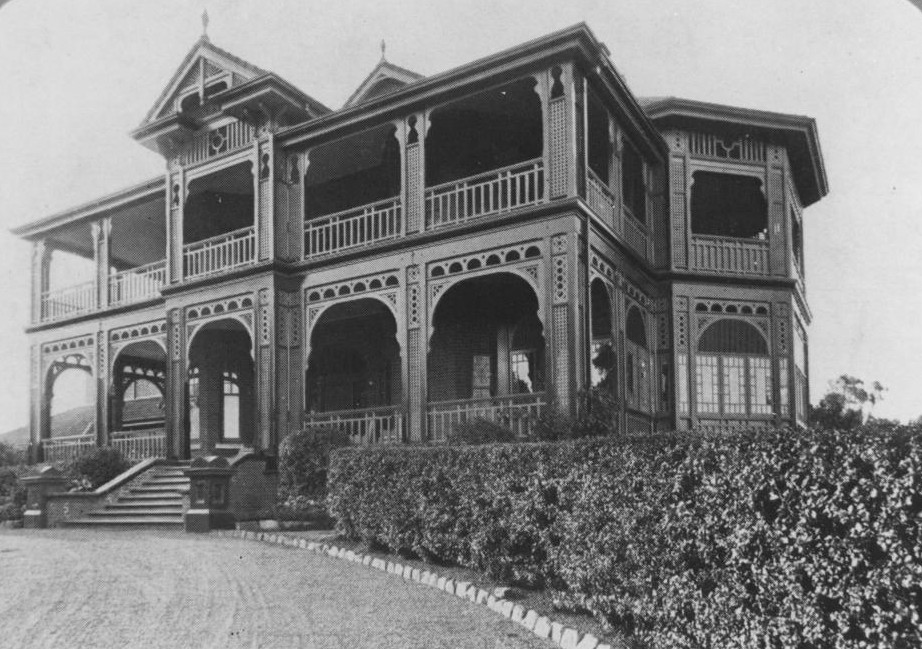
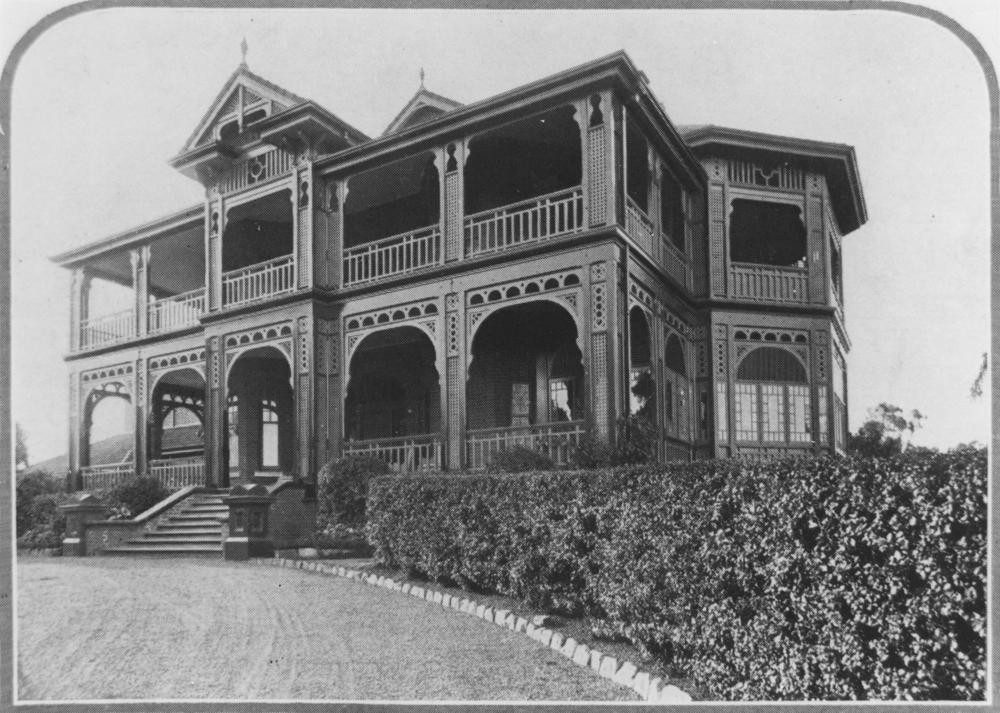
Show full Ross Roy photo at natural aspect (no crop, no stretch)

diff --git a/index.html b/index.html
@@ -103,7 +103,7 @@
 
   /* Hero image */
   .hero-image {
-    width: 100%; background: #1a1a1a;
+    width: 100%; background: var(--cream-deep);
     border-bottom: 1px solid var(--border);
   }
   .hero-image-wrap {
@@ -111,9 +111,7 @@
     line-height: 0;
   }
   .hero-image img {
-    display: block; width: 100%;
-    height: clamp(320px, 70vh, 760px);
-    object-fit: cover; object-position: center 35%;
+    display: block; width: 100%; height: auto;
   }
   .hero-image-caption {
     max-width: var(--maxw); margin: 0 auto;
